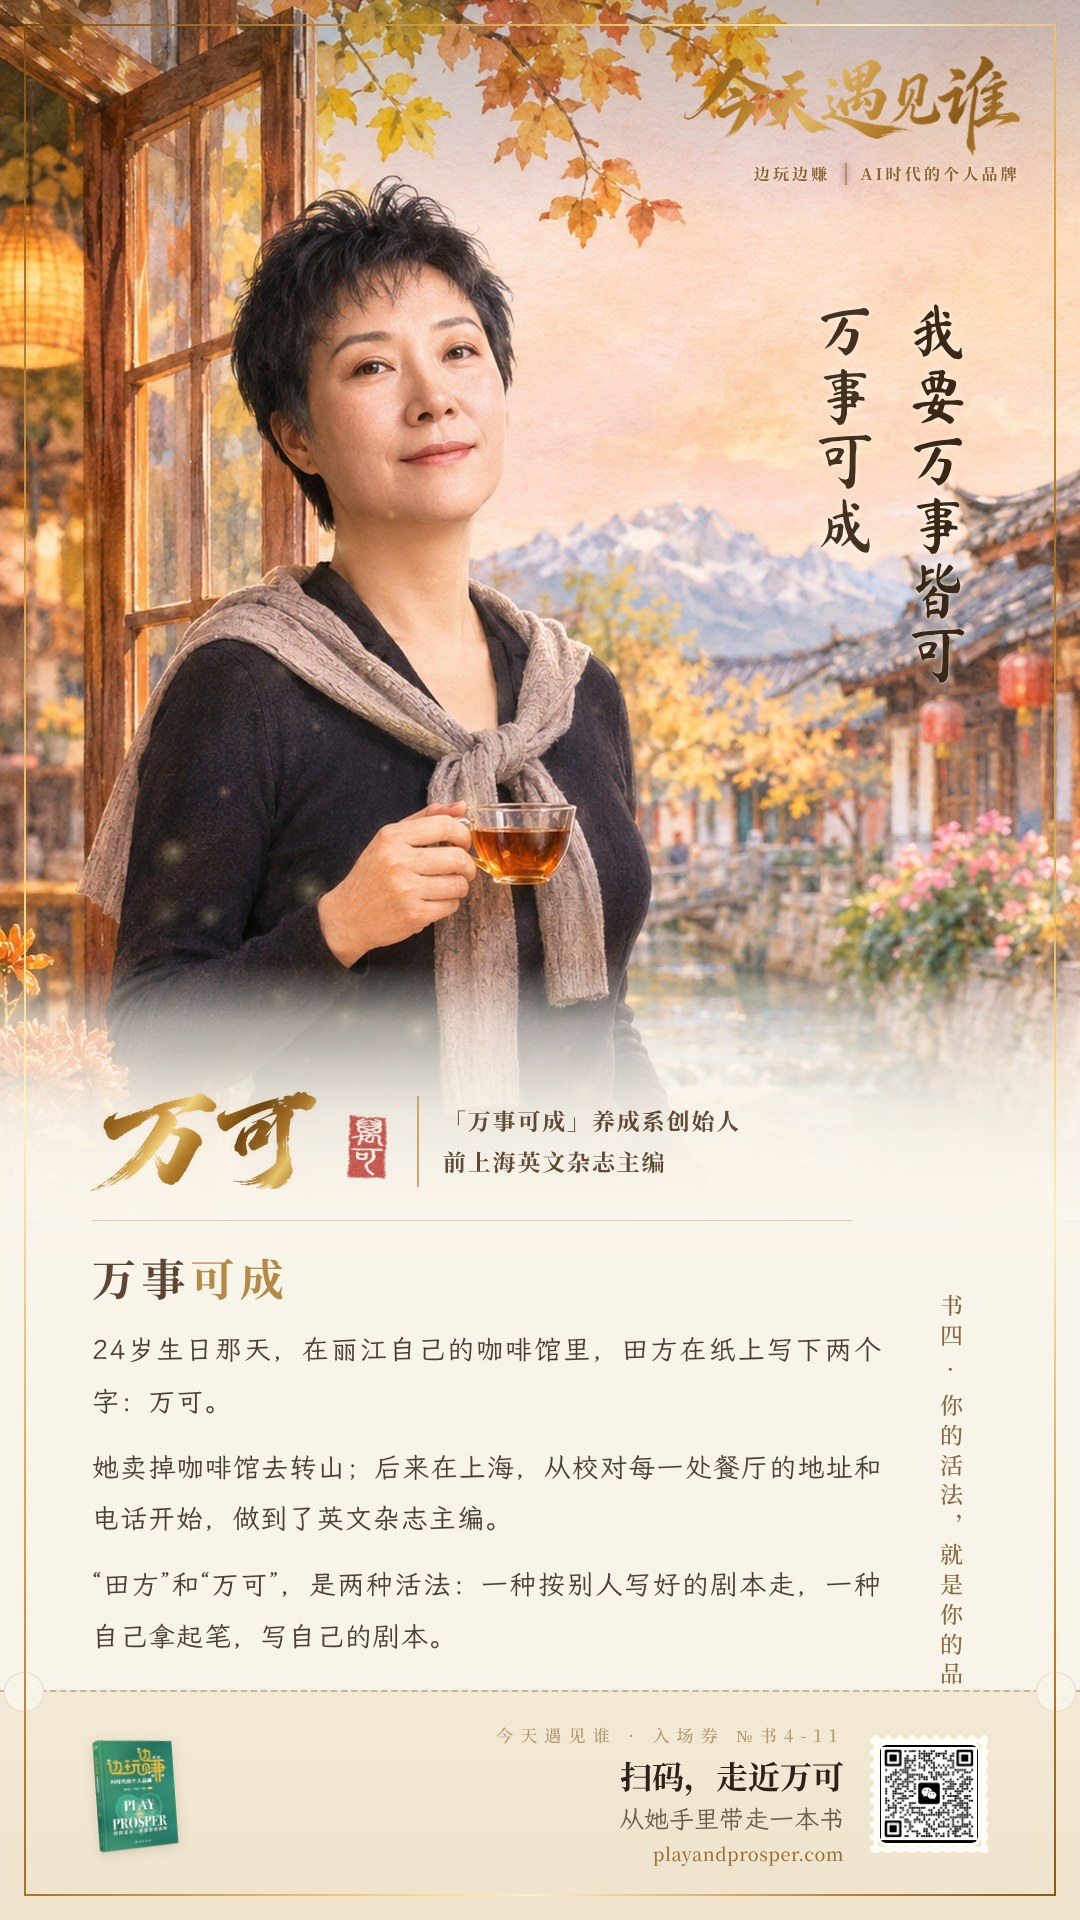
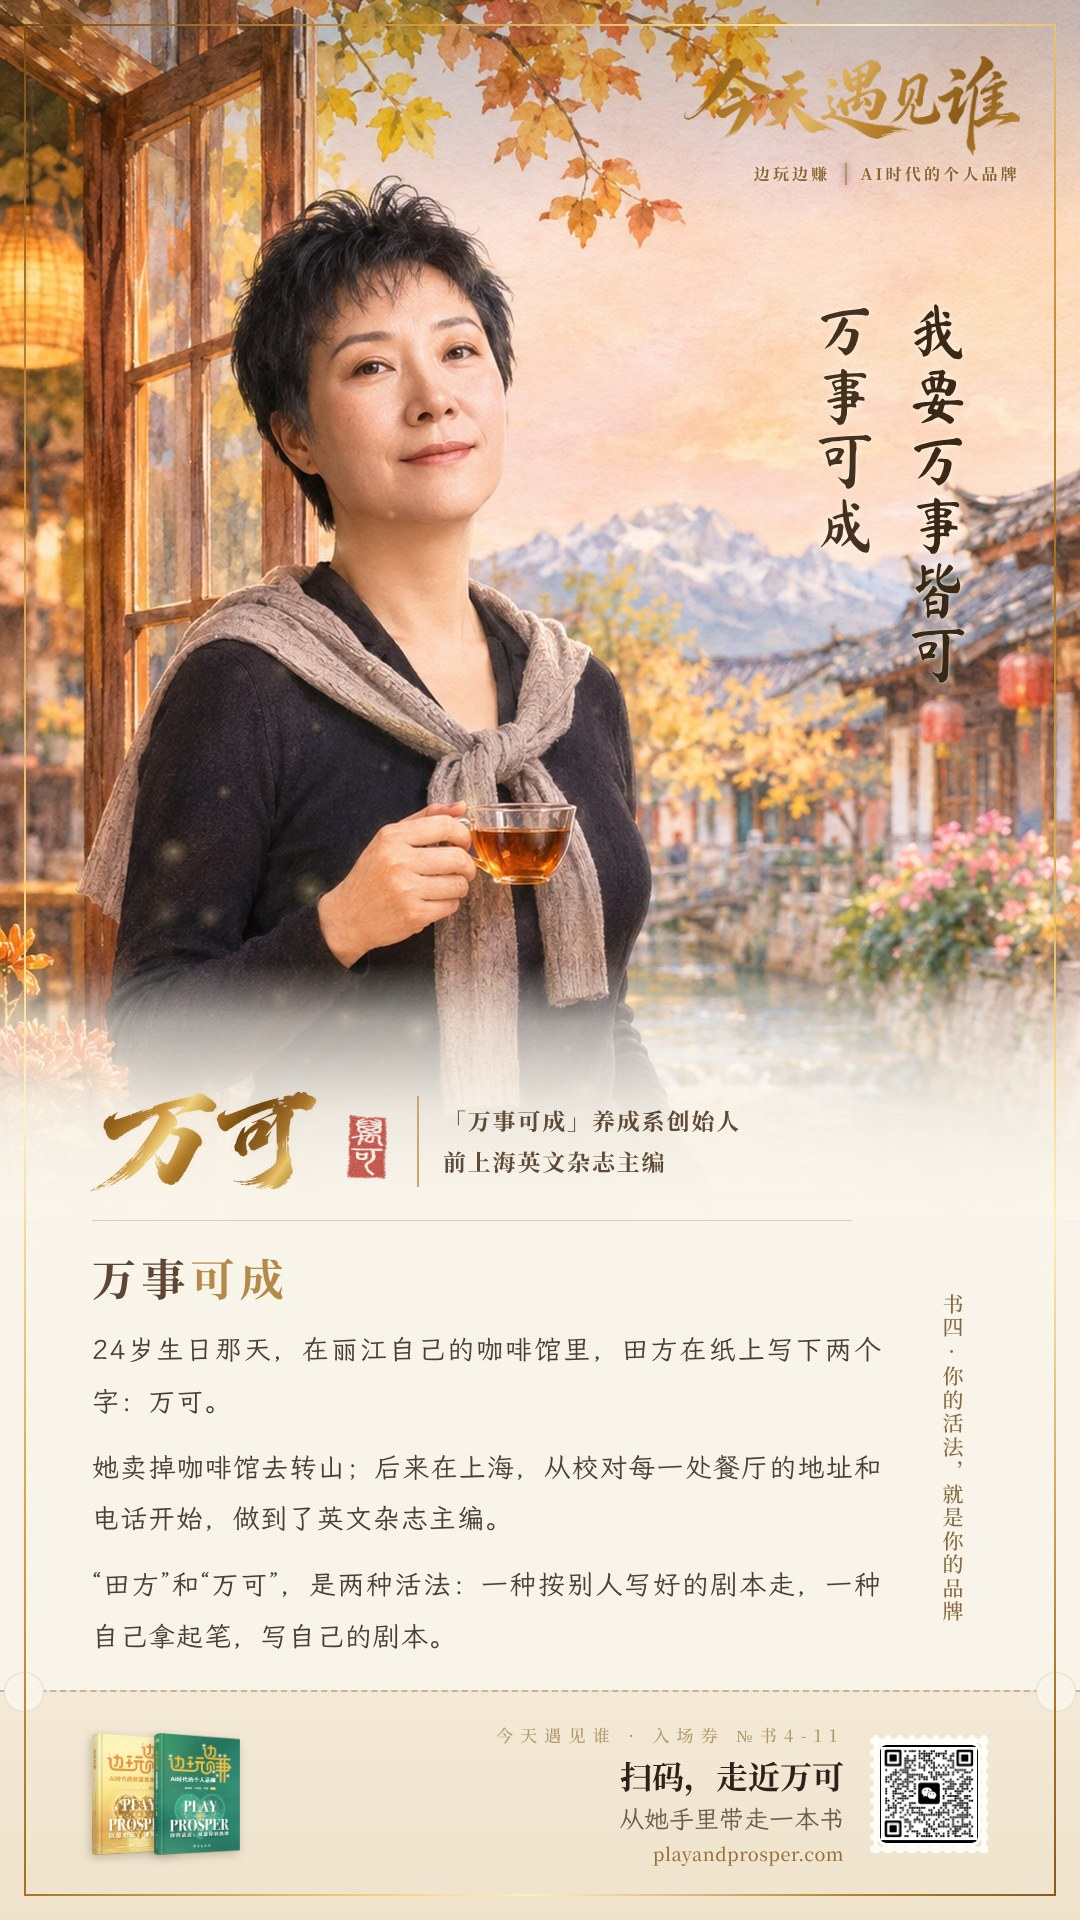
人生卡更新：千百合、金闰迪、万可换成人生卡-最终版最新一版
Claude-Session: https://claude.ai/code/session_01BfepyFs9BSX7WzsDsohzXp

Changed region(s): [[0.0611, 0.875, 0.2444, 0.9688], [0.8556, 0.6875, 0.8861, 0.875]]

diff --git a/v2/lily/index.html b/v2/lily/index.html
@@ -8,7 +8,7 @@
 <meta name="description" content="千百合（Lily），边玩边赚联合创始人，老板 IP 商业重构师，20+ 畅销书出品人/译者。从守着一间办公室，到人生百国。这件事，没有我，行不行？">
 <meta property="og:title" content="千百合 · 放得下，走得开">
 <meta property="og:description" content="从守着一间办公室，到人生百国。边玩边赚联合创始人，老板 IP 商业重构师。">
-<meta property="og:image" content="https://www.playandprosper.com/v2/lily/card.jpg">
+<meta property="og:image" content="https://www.playandprosper.com/v2/lily/card.jpg?v=20261114">
 <meta name="theme-color" content="#16263A">
 <link rel="icon" href="../img/logo-icon.png">
 <script type="application/ld+json">{"@context":"https://schema.org","@type":"Person","name":"千百合","alternateName":["Lily Li","Lily"],"jobTitle":"老板 IP 商业重构师","description":"边玩边赚联合创始人，20+ 畅销书出品人/译者，100+ AI 智能体创作者。","homeLocation":{"@type":"Place","name":"达拉斯"},"url":"https://www.playandprosper.com/lily/","memberOf":{"@type":"Organization","name":"边玩边赚 Play and Prosper","url":"https://www.playandprosper.com/"}}</script>
@@ -300,7 +300,7 @@ footer a{color:#DCE6EE;text-decoration:none}
 
 <section class="card">
   <div class="w">
-    <a href="card.jpg" target="_blank"><img src="card.jpg" alt="千百合的人生卡" loading="lazy"></a>
+    <a href="card.jpg?v=20261114" target="_blank"><img src="card.jpg?v=20261114" alt="千百合的人生卡" loading="lazy"></a>
     <div>
       <span class="tag"><span class="no">①</span>人生卡</span>
       <h2>你好，我是千百合</h2>
@@ -412,7 +412,7 @@ footer a{color:#DCE6EE;text-decoration:none}
     <h2>一篇故事，盖了十八个章</h2>
     <p class="lead">边玩边赚的「十八般武艺」：把一篇故事，变成十八样能用的东西。红章是已经到站的，虚线是下一站。</p>
     <ul class="sgrid">
-      <li><a href="card.jpg" target="_blank"><b>①</b><strong>人生卡</strong></a></li>
+      <li><a href="card.jpg?v=20261114" target="_blank"><b>①</b><strong>人生卡</strong></a></li>
       <li><a href="#story"><b>②</b><strong>电子书</strong><small>中英双版</small></a></li>
       <li><a href="talk.html" target="_blank"><b>③</b><strong>演讲 PPT</strong><small>带讲稿</small></a></li>
       <li><a href="poster.jpg" target="_blank"><b>④</b><strong>自我介绍海报</strong></a></li>
@@ -482,7 +482,7 @@ footer a{color:#DCE6EE;text-decoration:none}
     <h2>带走一张我</h2>
     <p class="lead">点开大图，长按保存。转给朋友，就是一张名片。</p>
     <div class="cards">
-      <a href="card.jpg" target="_blank"><img src="card.jpg" alt="千百合的人生卡" loading="lazy"><span><span class="no">①</span>人生卡</span></a>
+      <a href="card.jpg?v=20261114" target="_blank"><img src="card.jpg?v=20261114" alt="千百合的人生卡" loading="lazy"><span><span class="no">①</span>人生卡</span></a>
       <a href="poster.jpg" target="_blank"><img src="poster.jpg" alt="千百合的自我介绍海报" loading="lazy"><span><span class="no">④</span>自我介绍海报</span></a>
       <a href="moments.jpg" target="_blank"><img src="moments.jpg" alt="千百合的朋友圈封面" loading="lazy"><span><span class="no">⑧</span>朋友圈封面</span></a>
     </div>

diff --git a/v2/wanke/index.html b/v2/wanke/index.html
@@ -8,7 +8,7 @@
 <meta name="description" content="万可，「万事可成」养成系创始人，前上海英文杂志主编，边玩边赚书 3、书 4 作者。24 岁那年，她在纸上写下两个字：万可。">
 <meta property="og:title" content="万可 · 我要万事皆可，万事可成">
 <meta property="og:description" content="「万事可成」养成系创始人 · 前上海英文杂志主编 · 边玩边赚书系作者">
-<meta property="og:image" content="https://www.playandprosper.com/v2/wanke/card.jpg">
+<meta property="og:image" content="https://www.playandprosper.com/v2/wanke/card.jpg?v=20261114">
 <meta name="theme-color" content="#F6EEE1">
 <link rel="icon" href="../img/logo-icon.png">
 <script type="application/ld+json">{"@context":"https://schema.org","@type":"Person","name":"万可","jobTitle":"「万事可成」养成系创始人","description":"前上海英文杂志主编，6本畅销书作者/译者。52岁获全国自由潜一金一银，53岁用AI把半生积累搭成课程和智能体。边玩边赚书3、书4作者。","url":"https://www.playandprosper.com/wanke/","memberOf":{"@type":"Organization","name":"边玩边赚 Play and Prosper","url":"https://www.playandprosper.com/"}}</script>
@@ -217,7 +217,7 @@ footer .you{display:block;margin-top:8px;font-size:15px;color:#E8DCCB}
 <!-- 3 · 人生卡 -->
 <section class="card" id="card">
   <div class="w">
-    <div class="img"><img src="card.jpg" alt="万可的人生卡：今天遇见谁 · 书 4 · 11" id="cardImg"></div>
+    <div class="img"><img src="card.jpg?v=20261114" alt="万可的人生卡：今天遇见谁 · 书 4 · 11" id="cardImg"></div>
     <div>
       <span class="kick">今 天 遇 见 谁 · 书 4 · №11</span>
       <h2><span class="no">①</span>万可的人生卡</h2>
@@ -360,7 +360,7 @@ footer .you{display:block;margin-top:8px;font-size:15px;color:#E8DCCB}
   <a href="#books">读她的故事</a><a class="main" href="#meet">加微信</a>
 </nav>
 
-<div class="lb" id="lb" role="dialog" aria-label="人生卡大图"><img src="card.jpg" alt="万可的人生卡大图"><p>长按图片保存 · 点空白处关闭</p></div>
+<div class="lb" id="lb" role="dialog" aria-label="人生卡大图"><img src="card.jpg?v=20261114" alt="万可的人生卡大图"><p>长按图片保存 · 点空白处关闭</p></div>
 
 <script>
 (function(){

diff --git a/v2/jinrundi/index.html b/v2/jinrundi/index.html
@@ -8,7 +8,7 @@
 <meta name="description" content="金闰迪，国家认证营养师，深圳梧桐山云谷精舍主人，边玩边赚联合创始人。湖北房县山里长大，十七岁揣着20元出门，走了大半个中国。你的身体养回来，你的日子活出来。">
 <meta property="og:title" content="金闰迪 · 这座山，是我自己挑的">
 <meta property="og:description" content="国家认证营养师 · 深圳梧桐山云谷精舍主人 · 边玩边赚联合创始人">
-<meta property="og:image" content="https://www.playandprosper.com/v2/jinrundi/card.jpg">
+<meta property="og:image" content="https://www.playandprosper.com/v2/jinrundi/card.jpg?v=20261114">
 <meta name="theme-color" content="#E7ECE6">
 <link rel="icon" href="../img/logo-icon.png">
 <script type="application/ld+json">{"@context":"https://schema.org","@type":"Person","name":"金闰迪","alternateName":"Jin Rundi","jobTitle":"国家认证营养师","description":"湖北房县山里长大，十七岁揣着20元出门，走了大半个中国。国家认证营养师，深圳梧桐山云谷精舍主人，边玩边赚联合创始人。","homeLocation":{"@type":"Place","name":"深圳梧桐山"},"url":"https://www.playandprosper.com/jinrundi/","memberOf":{"@type":"Organization","name":"边玩边赚 Play and Prosper","url":"https://www.playandprosper.com/"}}</script>
@@ -278,7 +278,7 @@ footer a{color:#DCE7E1;text-decoration:none}
 
 <section class="hello">
   <div class="w">
-    <img src="card.jpg" alt="金闰迪的人生卡：今天遇见谁 · 第 33 位" loading="lazy">
+    <img src="card.jpg?v=20261114" alt="金闰迪的人生卡：今天遇见谁 · 第 33 位" loading="lazy">
     <div>
       <span class="tag"><b>①</b>人生卡 · 今天遇见谁 · 第 33 位</span>
       <h2>你好，我是金闰迪</h2>
